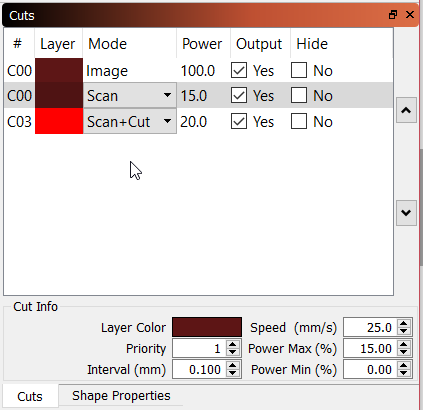
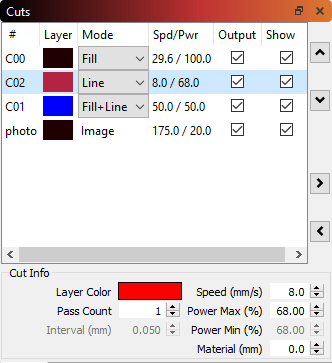
Cut Planner, Layers, and Toolbars edits

diff --git a/Layers.md b/Layers.md
@@ -4,9 +4,7 @@
 
 # Layers
 
-LightBurn offers layering capability to allow different actions and settings for the various drawings or images of your job.
-
-Layers are controlled by the color palette at the bottom of the LightBurn workspace.
+LightBurn allows you to set up multiple types of cut with different settings in a single job. The different parts of the job are assigned to different layers in LightBurn by color, and the color palette is shown at the bottom of the LightBurn workspace by default:
 
 ![Layers Palette](/img/LayersPalette.PNG)
 
@@ -14,7 +12,7 @@ Layers are controlled by the color palette at the bottom of the LightBurn worksp
 
 ### Assigning layers manually
 
-To use the layers palette, select an item in your workspace such as a shape or image and then select a color from the palette at the bottom of the screen. This color will now be assigned to a new layer that you will see in the cuts toolbox. Any item you assign to the same color will be placed in the same layer.
+To use the layers palette, select an item in your workspace, like a shape or image, and then click a color from the palette at the bottom of the screen. This color will now be assigned to a new layer that you will see in the Cuts toolbox, normally shown on the upper right of the window. Any item you assign to the same color will be placed in the same layer, and all the settings for that layer will apply to it.
 
 As seen in the image below, each shape and image is color coded to a different layer and each layer is capable of having a different set of instructions for your laser. 
 
@@ -24,19 +22,25 @@ As seen in the image below, each shape and image is color coded to a different l
 
 ### Assigning layers automatically
 
-LightBurn will look at your current drawing to identify colors and attempt to match them to a color in the layer palette. If an exact match is available it will assign it. Otherwise it will assign unmatched colors to the next available color in the palette.
+When importing artwork from other software, LightBurn will look at your assigned colors and attempt to match them to a color in the LightBurn layer palette. If an exact match is available it will assign it. Otherwise it will assign unmatched colors to the closest available color in the palette.
 
 
 
 ### Layer options
 
-You can adjust the order of operations across layers by changing the priority value in the cut info section below the list of layers. Moving a layer to 0 will make it the first layer to be acted on by your laser and it will proceed in order down the list. This is a powerful tool to control which parts of your job are completed first and which are last such as engrave and then cut.
+You can adjust the order of operations across layers by selecting an entry in the Cuts window and then clicking the up/down arrows to the right of the window.  By default, LightBurn will process your layers in the order they appear in this window. (You can change this with the [Optimization Settings](CutPlanner.md) button)
 
-As a drawing gets more complex it can become difficult to determine what is on a given layer. If you right click the layer in the cuts toolbox it will cause the items associated with that layer to flash on the screen. 
+This is a powerful tool to control which parts of your job are completed first and which are last such as engrave and then cut.
 
-Also layers can be set to output or not by checking the Output checkbox. Turning this off will prevent the layer from being sent to your laser but will be recognized for current position or user job origination settings. Using this would allow you to place a representation of your work piece as a guide for alignment and setup while not actually burning. 
+As a drawing gets more complex it can become difficult to determine what is on a given layer. If you right click the layer in the Cuts toolbox, the items in that layer will flash on the screen.
 
-You can also hide a layer. This will turn the visibility on the screen on and off and can be helpful when working with complex drawings.
+Also layers can be set to output or not by checking the Output checkbox. Turning this off will prevent the layer from being sent to your laser but will be recognized for current position or user job origination settings. Using this would allow you to place a representation of your work piece as a guide for alignment and setup while not actually burning. Layers set not to output will dim in the edit window.
+
+You can also hide a layer, which will turn the visibility on the screen on and off and can be helpful when working with complex drawings.
+
+You can quickly enable, disable, or toggle the Output or Show state of your layers by right-clicking the column header in the Cuts toolbox:
+
+![Layers Popup](./img/LayersRightClick.png)
 
 
 

diff --git a/Toolbars.md b/Toolbars.md
@@ -44,6 +44,7 @@ You can reorder tabs by clicking on the tab and dragging it left or right in the
 [Return to Top](#Top)
 
 <a name="cuts"></a>
+
 ### Cuts
 
 The Cuts tool window is where you will configure most of your job. It contains layers of cut operations that can be reordered and have various machine operations configured.  Details of the possible Modes and settings are covered in the [Operations](Operations.md) section.
@@ -55,6 +56,8 @@ The Cuts tool window is where you will configure most of your job. It contains l
 * You can quickly select the Mode or set the layer Output and Hide options directly from the tool window
 * You can quickly set the basic operation parameters in the *Cut Info* section
 * Clicking the up or down arrows on the right side of the tool window will move the selected layer up or down in priority (as will editing the Priority value below)
+* Clicking the small left / right arrows to the right side of the tool window will store the selected cut in the scratchpad, or apply the scratchpad setting to the selected cut. This is a handy way to store and recall a default setting if you have your own preferred settings you like to start from.
+* Right-Clicking on the Output or Show text above the cut list will let you quickly toggle, enable, or disable that setting for all layers.
 
 [Return to Top](#Top)
 
@@ -128,29 +131,55 @@ If you type 1/2in, and you're in mm mode, it'll turn into 12.7.  If you're in in
 <a name="Tools"></a>
 ## Tools Toolbar
 
-On the left of the workspace in the default configuration, there is a tool bar with many of the commonly used tools. These are also duplicated in the tool menu at the top of the workspace. The tools are as follows:
+On the left of the workspace in the default configuration, there is a tool bar with many of the commonly used tools. These are also duplicated in the tool menu at the top of the workspace, and this menu also displays the hotkeys to quickly access them.
+
+![ToolsDropDown](./img/ToolsDropDown.png)
+
+The tools are as follows:
 
 
 ### Select
-Click on the "Select" icon to select objects in the workspace, or to access menus and toolbars.
+Click on the "Select" icon to select objects in the workspace, or to access menus and toolbars. You can also quickly get back to Select mode by pressing Esc.
 ### Draw Lines
-Click on the "Draw Lines" icon to draw straight lines in the workspace.
+Click on the "Draw Lines" icon to draw straight lines in the workspace, or press Ctrl-L (or Command-L on Mac).
 ### Rectangle Tool
-Click on the "Rectangle" icon todraw rectangles in the workspace.
+Click on the "Rectangle" icon to draw rectangles in the workspace, or press Ctrl-R (or Command-R on Mac).
 ### Ellipse Tool
 Click on the "Ellipse" icon to draw ellipses in the workspace.
+
+### Polygon Tool
+
+Click on the "Polygon" icon to draw regular polygons, like hexagons, triangles, pentagons, and so on. The number of sides can be edited in the Shape Properties window.
+
 ### Edit Nodes
-Click on the "Edit Nodes" icon to edit nodes of objects in the workspace.
+Click on the "Edit Nodes" icon to edit nodes of objects in the workspace, or press Ctrl-`.
 ### Edit Text
-Click on the "Edit Text" icon to create or edit text in the workspace.
+Click on the "Edit Text" icon to create or edit text in the workspace, or press Ctrl-T.
 ### Position Laser
 Click on the "Position Laser" icon to allow clicking on the workspace to move the laser head to that location.
 ### Offset Vectors
 Click on the "Offset Vectors" icon to createnew vectors that are an offset of the original vector selected.
 
+### Weld, Union, Difference, and Intersect Vectors
+
+These four operations are covered in the [Boolean Operations](Boolean.md) page.
+
+### Grid Array
+
+Create an array of copies of the current selection, arranged in a grid with editable spacing and other options.
+
+### Radial Array
+
+Create an array of copies of the current selection, arranged in a circle, with editable spacing and other options.
+
+### Edit Start Point
+
+Edit the point and direction that LightBurn will use to start cutting the selected shape, or shapes.
+
 [Return to Top](#Top)
 
 <a name="Arrange"></a>
+
 ## Arrange Toolbar
 
 [Return to Top](#Top)
@@ -163,8 +192,7 @@ Click on the "Offset Vectors" icon to createnew vectors that are an offset of th
 <a name="Text"></a>
 ## Text Options Toolbar
 
-You can select the font, size, and also Bold or Italic options here.
-
+You can select the font, size, and also Bold or Italic options here, as well at the Variable Text mode to use, if any.  More information about Variable Text can be found [here](VariableText.md).
 
 [Return to Top](#Top)
 

diff --git a/CutPlanner.md b/CutPlanner.md
@@ -4,21 +4,33 @@
 
 # Cut Optimization Settings - Cut Planner
 
+[Video Tutorial on YouTube - Click here](https://www.youtube.com/watch?v=w1hG1wv8tS4)
+
 The cut planner gives you a great deal of control over the ordering of your cuts - you can let LightBurn try to choose the best path for you, order it piece by piece yourself, or somewhere in between.  The new options are powerful, and we'll have a video coming soon to demonstrate them.  If you have "Order by Layer" as the only entry in the list at the top (the default), it will behave the way you're used to. After selecting your choices in the cut planner, use the Preview (Alt-P) to see how your choices have impacted things by using the slider at the bottom of the window.
+
+Access these settings by pressing the Optimization Settings button shown here:
+
+![OptimizationSettingsButton](./img/OptimizationSettingsButton.png)
+
+
+
+The settings are displayed in this dialog (and the defaults are shown here):
+
+![CutPlannerSettings](./img/CutPlannerSettings.png)
 
 ## Order By
 
 You can select what the initial order parameter will be. You have a choice of Layer, Groups or Priority. As well you can use a combination of these three choices in any order you wish.
 
-### Order By Layer
+#### Order By Layer
 
 If you choose Order By Layer, the cut planner will apply all optimizations to the first layer, then the second layer, and so on.
 
- ### Order By Groups
+ #### Order By Groups
 
 If you choose Order By groups the cut planner will apply all optimizations to a Grouped object, then the next Grouped object, and  so on.
 
-### Order By Priority 
+#### Order By Priority 
 
 If you choose Order By Priority, the cut planner will  apply all optimizations to the objects with the highest priority (Assigned in the Shape Properties Window) first, then the next lowest and so on.
 
@@ -26,34 +38,34 @@ If you choose Order By Priority, the cut planner will  apply all optimizations t
 
 ## Optimizations
 
-### Cut Inner Shapes First
+#### Cut Inner Shapes First
 
 As the name implies, if there is an object within another object, and both are being cut, it will cut out the inside object before the outside one.
 
-### Cut In Direction Order
+#### Cut In Direction Order
 This will try to cut the shapes in your project in the specified direction - top to bottom, left to right, etc.
 
 
-### Reduce Travel Moves
+#### Reduce Travel Moves
 
 This will have the cut planner try to order the cuts in a way that it will choose objects beside each other to try and reduce non cutting travel moves.
 
-### Reduce Direction Changes
+#### Reduce Direction Changes
 
 The cut planner will try to choose cuts that allow it to keep moving in the same direction.
 
-### Choose Best Starting Point
+#### Choose Best Starting Point
 
 Allows the system to start a cut at any point within a shape, not just the first point. Works best when "reduce travel moves" is also enabled.
 
-### Choose Corners, If Possible
+#### Choose Corners, If Possible
 
 The cut planner will attempt to start a cut at a sharp corner to minimize burning or staining on the surface of an item.
 
-### Choose Best Direction
+#### Choose Best Direction
 
 The cut planner will attempt to choose the best direction to cut in.
 
-### Remove Overlapping Lines
+#### Remove Overlapping Lines
 
 The cut planner will remove lines that overlap each other that would cause the laser to cut in the same place twice.
